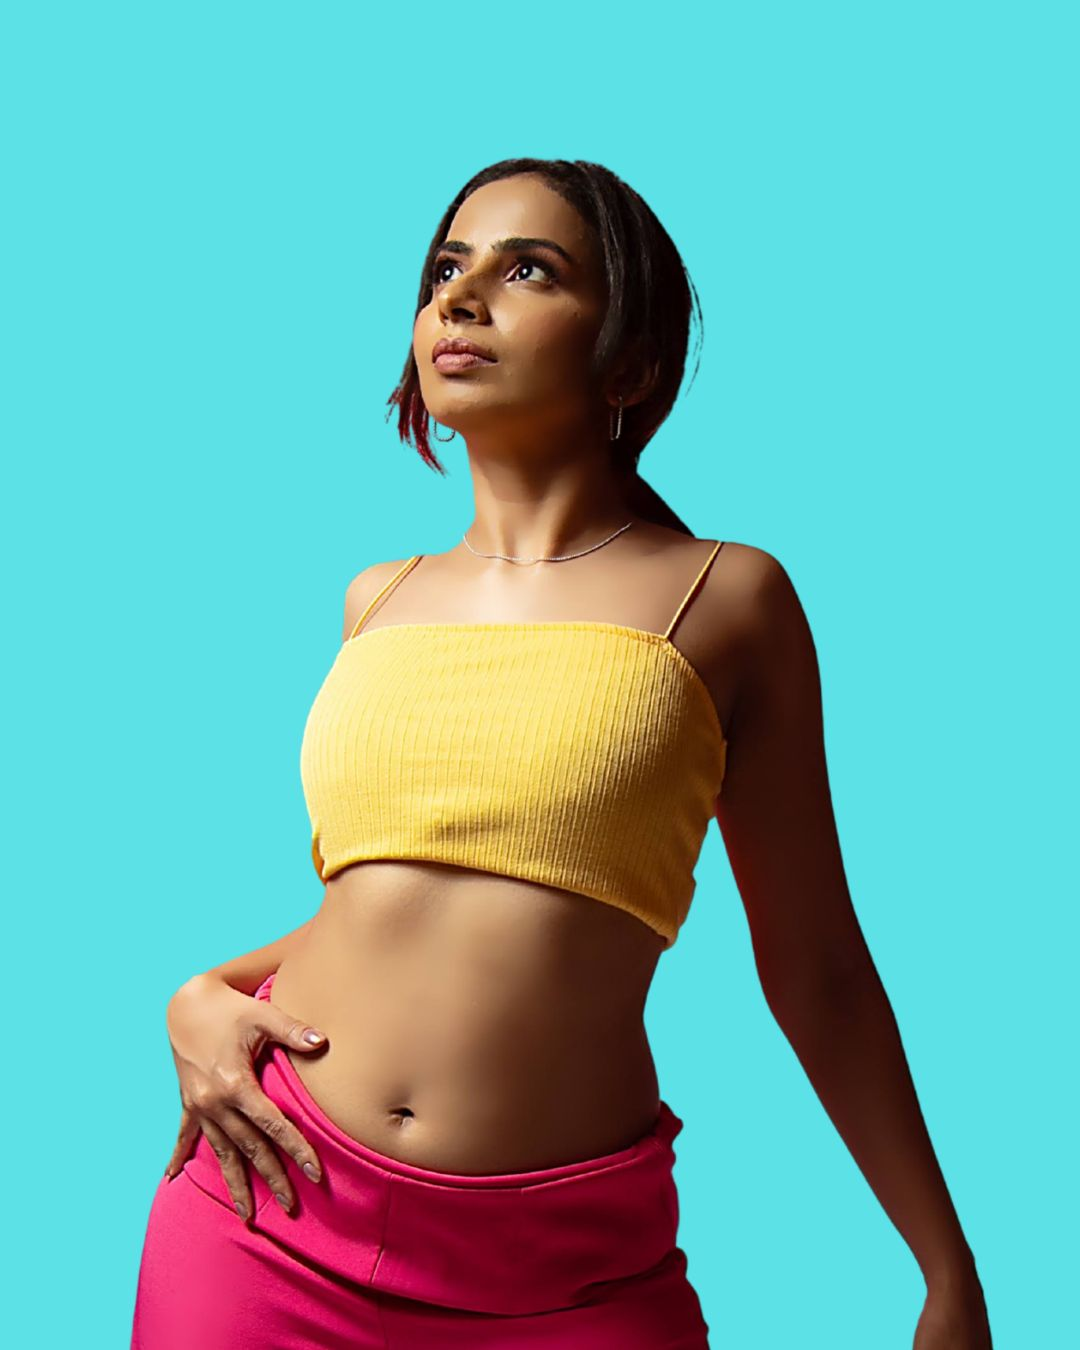
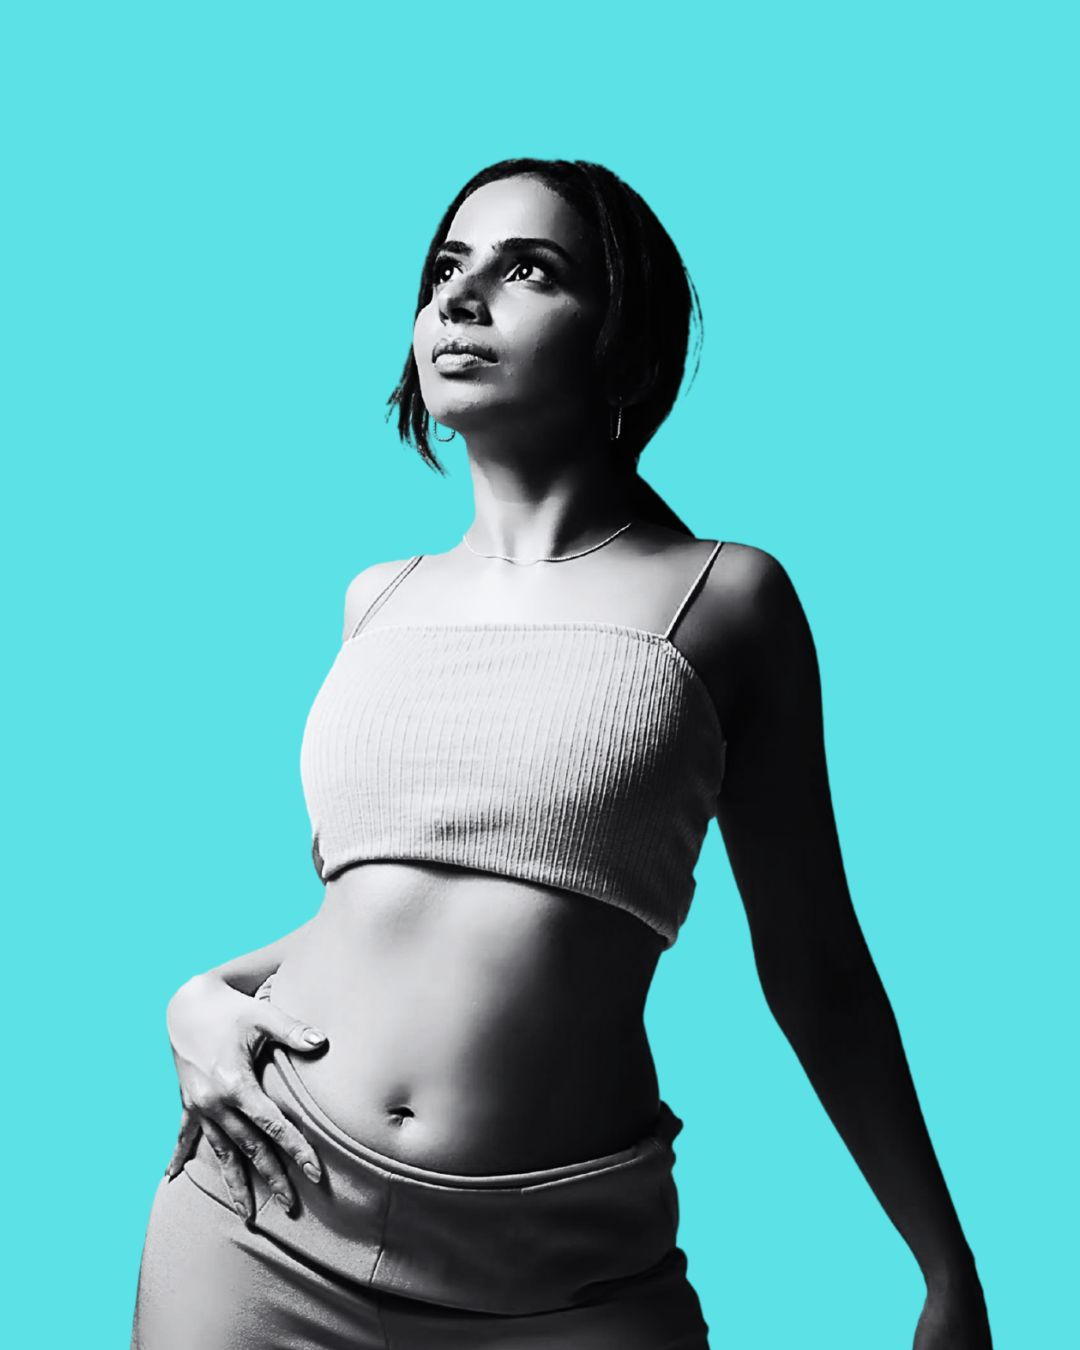
Fix card photo gradient bleed and swap Jazz Funk photo to B&W
- Clip the card photo frame so the active-card zoom can't push the
  image past the gradient overlay (caused an undarkened strip at the
  photo bottom)
- Anchor the fade gradient to the exact bottom edge and remove the
  1px seam border between photo and card body
- Replace Jazz Funk photo with the corrected B&W version

diff --git a/index.html b/index.html
@@ -187,9 +187,9 @@
   .is-carousel .cf-card{position:absolute;left:50%;top:50%;margin:0;transition:transform .55s cubic-bezier(.22,.61,.36,1),opacity .5s,filter .5s,box-shadow .4s;will-change:transform,opacity}
   .is-dragging .cf-card{transition:none!important}
   .cf-card.is-active{border-color:var(--border-cyan);box-shadow:0 0 52px rgba(92,225,230,.30),0 18px 60px rgba(0,0,0,.55)}
-  .cf-photo{flex:0 0 auto;aspect-ratio:4/5;width:100%;position:relative;display:flex;align-items:center;justify-content:center;background:repeating-linear-gradient(45deg,rgba(255,255,255,.025) 0 12px,rgba(255,255,255,.05) 12px 24px);color:var(--muted-2);font-family:"Space Mono",monospace;font-size:11px;letter-spacing:.22em;text-transform:uppercase;border-bottom:1px solid var(--border)}
+  .cf-photo{flex:0 0 auto;overflow:hidden;aspect-ratio:4/5;width:100%;position:relative;display:flex;align-items:center;justify-content:center;background:repeating-linear-gradient(45deg,rgba(255,255,255,.025) 0 12px,rgba(255,255,255,.05) 12px 24px);color:var(--muted-2);font-family:"Space Mono",monospace;font-size:11px;letter-spacing:.22em;text-transform:uppercase}
   .cf-photo img{position:absolute;inset:0;width:100%;height:100%;object-fit:cover;display:block;z-index:1;transition:transform .6s ease}
-  .cf-photo::after{content:"";position:absolute;inset:0;background:linear-gradient(180deg,rgba(12,16,18,0) 58%,rgba(12,16,18,.62) 100%);z-index:2;pointer-events:none}
+  .cf-photo::after{content:"";position:absolute;inset:0;background:linear-gradient(to top,rgba(12,16,18,.78) 0%,rgba(12,16,18,.38) 22%,rgba(12,16,18,0) 45%);z-index:2;pointer-events:none}
   .cf-card.is-active .cf-photo img{transform:scale(1.05)}
   .cf-photo:has(img)>span{display:none}
   .cf-photo .cam{font-size:24px;opacity:.5;display:block;margin-bottom:6px}

diff --git a/batches.html b/batches.html
@@ -137,9 +137,9 @@
   .is-dragging .cf-card{transition:none!important}
   .deck:not(.is-carousel) .cf-card{position:relative;transform:none!important;opacity:1!important;filter:none!important}
   .cf-card.is-active{border-color:var(--border-cyan);box-shadow:0 0 52px rgba(92,225,230,.30),0 18px 60px rgba(0,0,0,.55)}
-  .cf-photo{flex:0 0 auto;aspect-ratio:4/5;width:100%;position:relative;display:flex;align-items:center;justify-content:center;background:repeating-linear-gradient(45deg,rgba(255,255,255,.025) 0 12px,rgba(255,255,255,.05) 12px 24px);color:var(--muted-2);font-family:"Space Mono",monospace;font-size:11px;letter-spacing:.22em;text-transform:uppercase;border-bottom:1px solid var(--border)}
+  .cf-photo{flex:0 0 auto;overflow:hidden;aspect-ratio:4/5;width:100%;position:relative;display:flex;align-items:center;justify-content:center;background:repeating-linear-gradient(45deg,rgba(255,255,255,.025) 0 12px,rgba(255,255,255,.05) 12px 24px);color:var(--muted-2);font-family:"Space Mono",monospace;font-size:11px;letter-spacing:.22em;text-transform:uppercase}
   .cf-photo img{position:absolute;inset:0;width:100%;height:100%;object-fit:cover;display:block;z-index:1;transition:transform .6s ease}
-  .cf-photo::after{content:"";position:absolute;inset:0;background:linear-gradient(180deg,rgba(12,16,18,0) 58%,rgba(12,16,18,.62) 100%);z-index:2;pointer-events:none}
+  .cf-photo::after{content:"";position:absolute;inset:0;background:linear-gradient(to top,rgba(12,16,18,.78) 0%,rgba(12,16,18,.38) 22%,rgba(12,16,18,0) 45%);z-index:2;pointer-events:none}
   .cf-card.is-active .cf-photo img{transform:scale(1.05)}
   .cf-photo:has(img)>span{display:none}
   .cf-photo .cam{font-size:24px;opacity:.5;display:block;margin-bottom:6px}
